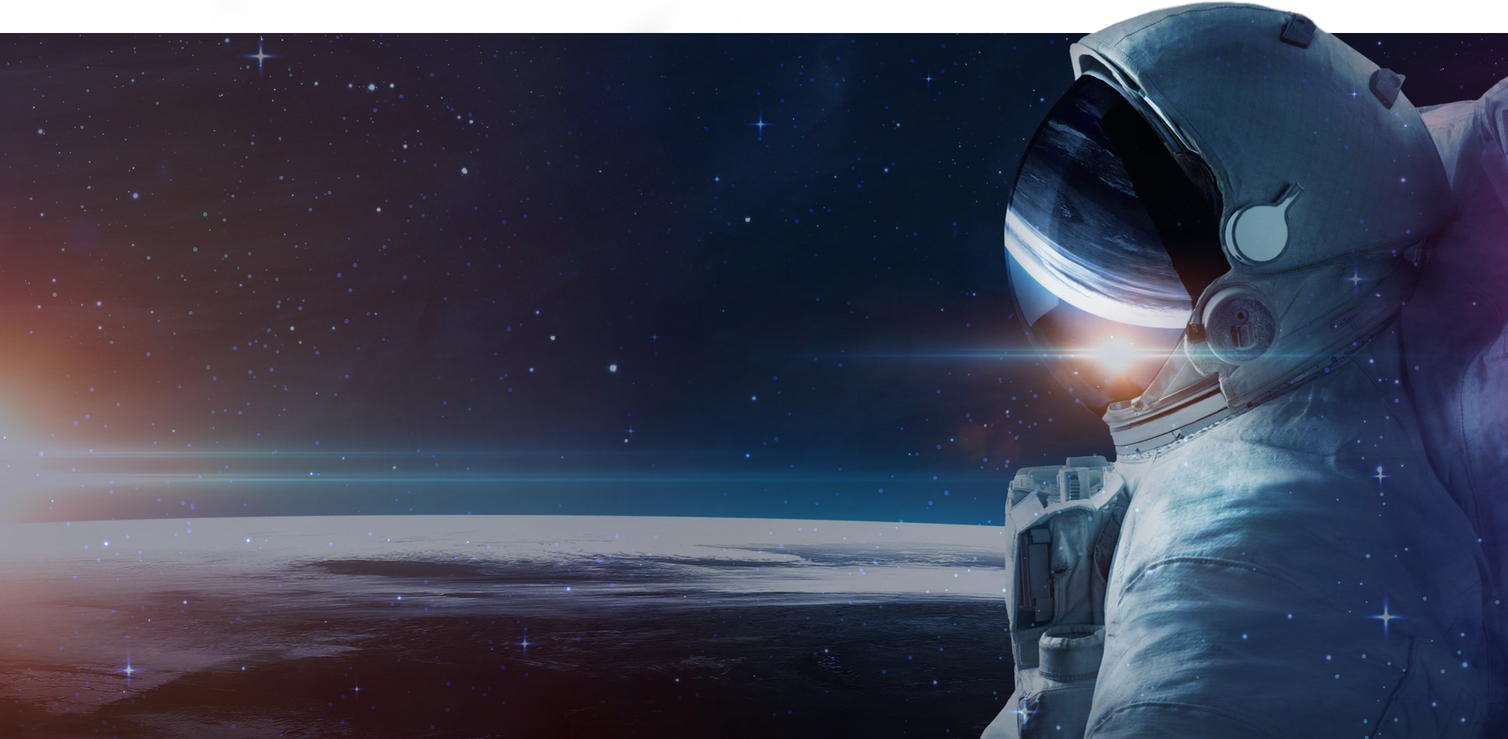
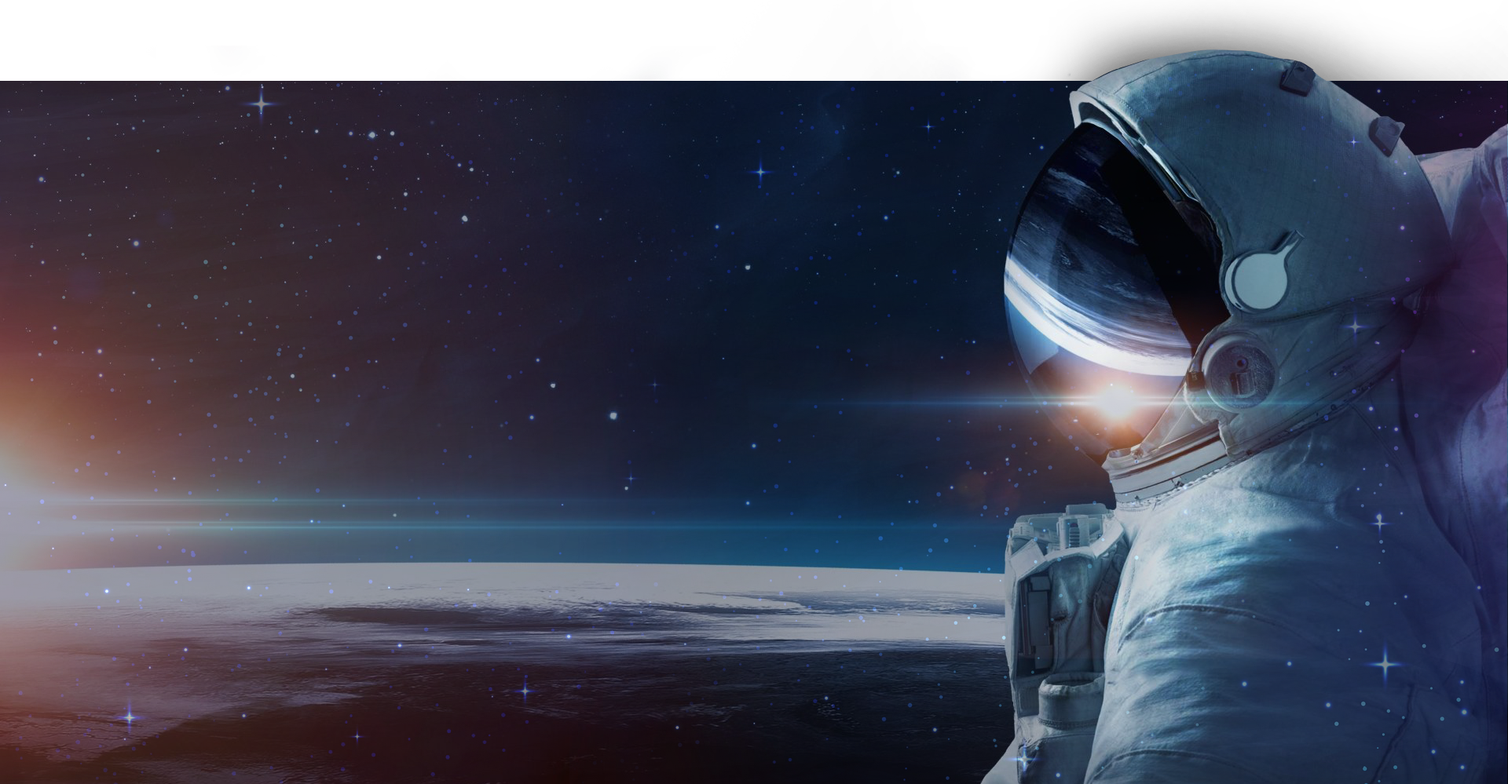
fix mobile

diff --git a/option/css/style.min.css b/option/css/style.min.css
@@ -1,1 +1,1 @@
-.edge__name,.title__name{font-weight:300;text-transform:uppercase}.contact__form button,.contact__text,.edge__name,.title__begin,.title__name{text-transform:uppercase}body{min-width:320px;margin:0}.container{width:1200px;margin:auto}@media screen and (max-width:1200px){.container{width:95%}}@font-face{font-family:'Open Sans Light';font-style:normal;font-weight:300;src:local("Open Sans Light"),local("OpenSans-Light"),url(../fonts/open-sans-v15-latin-300.woff2) format("woff2"),url(../fonts/open-sans-v15-latin-300.woff) format("woff")}@font-face{font-family:'Open Sans Regular';font-style:normal;font-weight:400;src:local("Open Sans Regular"),local("OpenSans-Regular"),url(../fonts/open-sans-v15-latin-regular.woff2) format("woff2"),url(../fonts/open-sans-v15-latin-regular.woff) format("woff")}@font-face{font-family:'Open Sans SemiBold';font-style:normal;font-weight:600;src:local("Open Sans SemiBold"),local("OpenSans-SemiBold"),url(../fonts/open-sans-v15-latin-600.woff2) format("woff2"),url(../fonts/open-sans-v15-latin-600.woff) format("woff")}@font-face{font-family:'Open Sans Bold';font-style:normal;font-weight:700;src:local("Open Sans Bold"),local("OpenSans-Bold"),url(../fonts/open-sans-v15-latin-700.woff2) format("woff2"),url(../fonts/open-sans-v15-latin-700.woff) format("woff")}.title{padding:70px 0 150px;background:url(../img/title-bg.jpg) top no-repeat #260d2f;background-size:cover}.title__wrapper{padding:0 50px}.title__logo{width:275px;height:49px}.title__name{margin:80px 0 50px;color:#fff;font-size:60px;font-family:'Open Sans Light',sans-serif}.title__name span{font-family:'Open Sans Bold',sans-serif}.edge__name,.title__begin,.title__text{color:#fff;font-family:'Open Sans Light',sans-serif}.title__text{margin:0 0 80px;font-size:34px}.title__begin{padding:15px 100px;font-size:30px;text-decoration:none;border-radius:5px;-webkit-box-shadow:0 0 6px .3px #00aeff;box-shadow:0 0 6px .3px #00aeff;background:#00aeff;-webkit-transition:.3s;transition:.3s}.title__begin:hover{-webkit-box-shadow:0 0 20px .3px #00aeff;box-shadow:0 0 20px .3px #00aeff}@media screen and (max-width:768px){.title{padding:30px 0 70px}.title__wrapper{padding:0}.title__logo{display:block;width:200px;height:auto;margin:auto}.title__name{margin:50px 0;font-size:30px;text-align:center}.title__text{font-size:25px;text-align:center}.title__begin{display:block;width:250px;margin:0 auto;padding:15px 0;font-size:16px;text-align:center}}.contact__flex,.edge__flex{display:-webkit-box;display:-ms-flexbox}.edge{padding:90px 0 40px;background:#182340}.edge__name{margin:0 0 90px;font-size:48px;text-align:center}.edge__name span{font-family:'Open Sans Bold',sans-serif}.contact__text,.edge__box{color:#fff;font-family:'Open Sans Light',sans-serif}.edge__flex{display:flex;-webkit-box-pack:justify;-ms-flex-pack:justify;justify-content:space-between}.edge__flex--second{-ms-flex-pack:distribute;justify-content:space-around;margin:100px 0 0}.edge__box{width:250px;padding:80px 0 0;font-size:20px;text-align:center}.edge__box--1{background:url(../img/edge-1.png) top no-repeat;background-size:88px}.edge__box--2{background:url(../img/edge-2.png) top no-repeat;background-size:85px}.edge__box--3{background:url(../img/edge-3.png) top no-repeat;background-size:72px}.edge__box--4{background:url(../img/edge-4.png) top no-repeat;background-size:91px}.edge__box--5{background:url(../img/edge-5.png) top no-repeat;background-size:70px}@media screen and (max-width:768px){.edge{padding:30px 0 0}.edge__name{margin:0 0 50px;font-size:30px}.edge__flex{-webkit-box-orient:vertical;-webkit-box-direction:normal;-ms-flex-direction:column;flex-direction:column;-webkit-box-align:center;-ms-flex-align:center;align-items:center}.edge__flex--second{margin:0}.edge__box{margin:0 0 20px;font-size:16px}}.contact{padding:250px 0 60px;background:url(../img/contact-bg-1.png) top no-repeat #182340;background-size:cover}.contact__wrapper{width:950px;margin:auto}.contact__text{margin:0;font-size:30px}.contact__text span{font-family:'Open Sans Bold',sans-serif}.contact__form button,.contact__form input,.footer__wrapper--text{font-family:'Open Sans Light',sans-serif}.contact__text:nth-child(2){margin:30px 0 80px}.contact__form{padding:65px 85px;background:rgba(0,0,0,.4)}.contact__form input{width:300px;height:55px;padding:0 25px;font-size:20px;border:none;border-radius:5px}.contact__form input::-webkit-input-placeholder{color:#555}.contact__form input:-ms-input-placeholder{color:#555}.contact__form input::-ms-input-placeholder{color:#555}.contact__form input::placeholder{color:#555}.contact__form button{display:block;margin:auto;padding:15px 110px;color:#fff;font-size:26px;-webkit-box-shadow:0 0 80px 0 #00aeff;box-shadow:0 0 80px 0 #00aeff;border:none;border-radius:5px;background:#00aeff;-webkit-transition:.3s;transition:.3s;cursor:pointer}.contact__form button:hover{-webkit-box-shadow:0 0 120px 0 #00aeff;box-shadow:0 0 120px 0 #00aeff}.contact__flex{display:flex;-webkit-box-pack:justify;-ms-flex-pack:justify;justify-content:space-between}.contact__flex:nth-child(2){margin:30px 0 40px}@media screen and (max-width:1200px){.contact__wrapper{width:auto}.contact__form{padding:35px}.contact__form input{width:250px}}@media screen and (max-width:768px){.contact{padding:150px 0 60px}.contact__text{font-size:25px;text-align:center}.contact__text:nth-child(2){margin:30px 0 50px}.contact__form input{width:auto;margin:0 0 10px;font-size:16px}.contact__form button{width:100%;padding:15px 0;font-size:16px}.contact__flex{-webkit-box-orient:vertical;-webkit-box-direction:normal;-ms-flex-direction:column;flex-direction:column}.contact__flex:nth-child(2){margin:0 0 20px}}.footer__wrapper{background:#181818}.footer__wrapper--dark{background:#121212}.footer__wrapper--text{padding:20px 0 50px;color:#676464;font-size:13px}.footer__wrapper--text span{font-family:'Open Sans Bold',sans-serif}.footer__wrapper--text a{color:#a4a0a0;text-decoration:none;-webkit-transition:.3s;transition:.3s}.footer__wrapper--text a:hover{color:#00aeff}.footer__middle b,.footer__middle ul li a{color:#fff;font-family:'Open Sans Light',sans-serif}.footer__wrapper hr{width:1px;border:none;background:#252525}.footer__flex{display:-webkit-box;display:-ms-flexbox;display:flex;-webkit-box-pack:justify;-ms-flex-pack:justify;justify-content:space-between}.footer__flex--social{padding:50px 0}.footer__flex--link{padding:40px 0}.footer__logo{width:373px;height:44px}.footer__left{width:307px;height:138px;background:url(../img/footer-payment.png) left no-repeat;background-size:307px}.footer__middle b{padding:0 0 0 25px;font-size:20px;background:url(../img/footer-link.png) left no-repeat}.footer__middle ul{padding:0;list-style:none}.footer__middle ul li{padding:5px 0}.footer__middle ul li a{font-size:13px;text-decoration:none;-webkit-transition:.3s;transition:.3s}.footer__middle ul li a:hover{color:#00aeff}.footer__right{padding:0 155px 0 0;background:url(../img/footer-mockup.png) right no-repeat}.footer__right b{padding:0 0 0 30px;color:#fff;font-size:20px;font-family:'Open Sans Light',sans-serif;background:url(../img/footer-download.png) left no-repeat}.footer__right a{display:block;width:157px;height:42px;border-radius:5px}.footer__right a:nth-child(2){margin:20px 0 15px;background:url(../img/footer-appstore.png) top no-repeat #000;background-size:cover}.footer__right a:nth-child(3){background:url(../img/footer-googleplay.png) top no-repeat #000;background-size:cover}@media screen and (max-width:1200px){.footer__left{width:200px;background-size:200px}}@media screen and (max-width:768px){.footer__middle,.footer__right{text-align:center}.footer__flex{-webkit-box-orient:vertical;-webkit-box-direction:normal;-ms-flex-direction:column;flex-direction:column;-webkit-box-align:center;-ms-flex-align:center;align-items:center}.footer__logo{width:300px;height:auto}.footer__right{padding:0;background:0 0}}
+.edge__name,.title__name{font-weight:300;text-transform:uppercase}.contact__form button,.contact__text,.edge__name,.title__begin,.title__name{text-transform:uppercase}body{min-width:320px;margin:0}.container{width:1200px;margin:auto}@media screen and (max-width:1200px){.container{width:95%}}@font-face{font-family:'Open Sans Light';font-style:normal;font-weight:300;src:local("Open Sans Light"),local("OpenSans-Light"),url(../fonts/open-sans-v15-latin-300.woff2) format("woff2"),url(../fonts/open-sans-v15-latin-300.woff) format("woff")}@font-face{font-family:'Open Sans Regular';font-style:normal;font-weight:400;src:local("Open Sans Regular"),local("OpenSans-Regular"),url(../fonts/open-sans-v15-latin-regular.woff2) format("woff2"),url(../fonts/open-sans-v15-latin-regular.woff) format("woff")}@font-face{font-family:'Open Sans SemiBold';font-style:normal;font-weight:600;src:local("Open Sans SemiBold"),local("OpenSans-SemiBold"),url(../fonts/open-sans-v15-latin-600.woff2) format("woff2"),url(../fonts/open-sans-v15-latin-600.woff) format("woff")}@font-face{font-family:'Open Sans Bold';font-style:normal;font-weight:700;src:local("Open Sans Bold"),local("OpenSans-Bold"),url(../fonts/open-sans-v15-latin-700.woff2) format("woff2"),url(../fonts/open-sans-v15-latin-700.woff) format("woff")}.title{padding:70px 0 150px;background:url(../img/title-bg.jpg) top no-repeat #260d2f;background-size:cover}.title__wrapper{padding:0 50px}.title__logo{width:275px;height:49px}.title__name{margin:80px 0 50px;color:#fff;font-size:60px;font-family:'Open Sans Light',sans-serif}.title__name span{font-family:'Open Sans Bold',sans-serif}.edge__name,.title__begin,.title__text{color:#fff;font-family:'Open Sans Light',sans-serif}.title__text{margin:0 0 80px;font-size:34px}.title__begin{padding:15px 100px;font-size:30px;text-decoration:none;border-radius:5px;-webkit-box-shadow:0 0 6px .3px #00aeff;box-shadow:0 0 6px .3px #00aeff;background:#00aeff;-webkit-transition:.3s;transition:.3s}.title__begin:hover{-webkit-box-shadow:0 0 20px .3px #00aeff;box-shadow:0 0 20px .3px #00aeff}@media screen and (max-width:768px){.title{padding:30px 0;background:url(../img/title-bg-m.jpg) top no-repeat #260d2f;background-size:cover}.title__wrapper{padding:0}.title__logo{display:block;width:200px;height:auto;margin:auto}.title__name{margin:170px 0 0;font-size:30px;text-align:center}.title__text{margin:0 0 20px;font-size:14px;text-align:center}.title__begin{display:block;width:250px;margin:0 auto;padding:15px 0;font-size:20px;text-align:center}}.contact__flex,.edge__flex{display:-webkit-box;display:-ms-flexbox}.edge{padding:90px 0 40px;background:#182340}.edge__name{margin:0 0 90px;font-size:48px;text-align:center}.edge__name span{font-family:'Open Sans Bold',sans-serif}.contact__text,.edge__box{color:#fff;font-family:'Open Sans Light',sans-serif}.edge__flex{display:flex;-webkit-box-pack:justify;-ms-flex-pack:justify;justify-content:space-between}.edge__flex--second{-ms-flex-pack:distribute;justify-content:space-around;margin:100px 0 0}.edge__box{width:250px;padding:80px 0 0;font-size:20px;text-align:center}.edge__box--1{background:url(../img/edge-1.png) top no-repeat;background-size:88px}.edge__box--2{background:url(../img/edge-2.png) top no-repeat;background-size:85px}.edge__box--3{background:url(../img/edge-3.png) top no-repeat;background-size:72px}.edge__box--4{background:url(../img/edge-4.png) top no-repeat;background-size:91px}.edge__box--5{background:url(../img/edge-5.png) top no-repeat;background-size:70px}@media screen and (max-width:768px){.edge{padding:30px 0 0}.edge__name{margin:0 0 50px;font-size:26px}.edge__flex{-webkit-box-orient:vertical;-webkit-box-direction:normal;-ms-flex-direction:column;flex-direction:column;-webkit-box-align:center;-ms-flex-align:center;align-items:center}.edge__flex--second{margin:0}.edge__box{margin:0 0 20px;font-size:16px}}.contact{padding:250px 0 60px;background:url(../img/contact-bg.png) top no-repeat #182340;background-size:cover}.contact__wrapper{width:950px;margin:auto}.contact__text{margin:0;font-size:30px}.contact__text span{font-family:'Open Sans Bold',sans-serif}.contact__form button,.contact__form input,.footer__wrapper--text{font-family:'Open Sans Light',sans-serif}.contact__text:nth-child(2){margin:30px 0 80px}.contact__form{padding:65px 85px;background:rgba(0,0,0,.4)}.contact__form input{width:300px;height:55px;padding:0 25px;font-size:20px;border:none;border-radius:5px}.contact__form input::-webkit-input-placeholder{color:#555}.contact__form input:-ms-input-placeholder{color:#555}.contact__form input::-ms-input-placeholder{color:#555}.contact__form input::placeholder{color:#555}.contact__form button{display:block;margin:auto;padding:15px 110px;color:#fff;font-size:26px;-webkit-box-shadow:0 0 80px 0 #00aeff;box-shadow:0 0 80px 0 #00aeff;border:none;border-radius:5px;background:#00aeff;-webkit-transition:.3s;transition:.3s;cursor:pointer}.contact__form button:hover{-webkit-box-shadow:0 0 120px 0 #00aeff;box-shadow:0 0 120px 0 #00aeff}.contact__flex{display:flex;-webkit-box-pack:justify;-ms-flex-pack:justify;justify-content:space-between}.contact__flex:nth-child(2){margin:30px 0 40px}@media screen and (max-width:1200px){.contact__wrapper{width:auto}.contact__form{padding:35px}.contact__form input{width:250px}}@media screen and (max-width:768px){.contact{padding:70px 0 15px;background:url(../img/contact-bg-m.jpg) top no-repeat #182340;background-size:cover}.contact__text{font-size:20px;text-align:center}.contact__text:nth-child(2){margin:30px 0 40px}.contact__form{padding:50px 15px 30px}.contact__form input{width:auto;height:45px;margin:0 0 10px;font-size:16px}.contact__form button{width:100%;padding:15px 0;font-size:20px}.contact__flex{-webkit-box-orient:vertical;-webkit-box-direction:normal;-ms-flex-direction:column;flex-direction:column}.contact__flex:nth-child(2){margin:0 0 20px}}.footer__wrapper{background:#181818}.footer__wrapper--dark{background:#121212}.footer__wrapper--text{padding:20px 0 50px;color:#676464;font-size:13px}.footer__wrapper--text span{font-family:'Open Sans Bold',sans-serif}.footer__wrapper--text a{color:#a4a0a0;text-decoration:none;-webkit-transition:.3s;transition:.3s}.footer__wrapper--text a:hover{color:#00aeff}.footer__middle b,.footer__middle ul li a{color:#fff;font-family:'Open Sans Light',sans-serif}.footer__wrapper hr{width:1px;border:none;background:#252525}.footer__flex{display:-webkit-box;display:-ms-flexbox;display:flex;-webkit-box-pack:justify;-ms-flex-pack:justify;justify-content:space-between}.footer__flex--social{padding:50px 0}.footer__flex--link{padding:40px 0}.footer__logo{width:373px;height:44px}.footer__left{width:307px;height:138px;background:url(../img/footer-payment.png) left no-repeat;background-size:307px}.footer__middle b{padding:0 0 0 25px;font-size:20px;background:url(../img/footer-link.png) left no-repeat}.footer__middle ul{padding:0;list-style:none}.footer__middle ul li{padding:5px 0}.footer__middle ul li a{font-size:13px;text-decoration:none;-webkit-transition:.3s;transition:.3s}.footer__middle ul li a:hover{color:#00aeff}.footer__right{padding:0 155px 0 0;background:url(../img/footer-mockup.png) right no-repeat}.footer__right b{padding:0 0 0 30px;color:#fff;font-size:20px;font-family:'Open Sans Light',sans-serif;background:url(../img/footer-download.png) left no-repeat}.footer__right a{display:block;width:157px;height:42px;border-radius:5px}.footer__right a:nth-child(2){margin:20px 0 15px;background:url(../img/footer-appstore.png) top no-repeat #000;background-size:cover}.footer__right a:nth-child(3){background:url(../img/footer-googleplay.png) top no-repeat #000;background-size:cover}.footer__right--text{display:none}@media screen and (max-width:1200px){.footer__left{width:200px;background-size:200px}}@media screen and (max-width:768px){.footer__middle,.footer__right{text-align:center}.footer__flex{-webkit-box-orient:vertical;-webkit-box-direction:normal;-ms-flex-direction:column;flex-direction:column;-webkit-box-align:center;-ms-flex-align:center;align-items:center}.footer__flex--social{padding:110px 0;background:url(../img/footer-logo-m.png) center no-repeat;background-size:270px}.footer__left,.footer__logo,hr{display:none}.footer__right{display:none;padding:0;background:0 0}.footer__right--text{display:block;background:url(../img/footer-mockup.png) bottom right no-repeat;background-position-y:30px}.footer__right--text a:nth-child(2){margin:50px 0 15px}}

diff --git a/option/css/style.css b/option/css/style.css
@@ -89,7 +89,9 @@ body {
 
 @media screen and (max-width: 768px) {
   .title {
-    padding: 30px 0 70px 0; }
+    padding: 30px 0;
+    background: #260d2f url("../img/title-bg-m.jpg") no-repeat top;
+    background-size: cover; }
   .title__wrapper {
     padding: 0; }
   .title__logo {
@@ -98,18 +100,19 @@ body {
     height: auto;
     margin: auto; }
   .title__name {
-    margin: 50px 0;
+    margin: 170px 0 0 0;
     font-size: 30px;
     text-align: center; }
   .title__text {
-    font-size: 25px;
+    margin: 0 0 20px 0;
+    font-size: 14px;
     text-align: center; }
   .title__begin {
     display: block;
     width: 250px;
     margin: 0 auto;
     padding: 15px 0;
-    font-size: 16px;
+    font-size: 20px;
     text-align: center; } }
 
 .edge {
@@ -167,7 +170,7 @@ body {
     padding: 30px 0 0 0; }
   .edge__name {
     margin: 0 0 50px 0;
-    font-size: 30px; }
+    font-size: 26px; }
   .edge__flex {
     -webkit-box-orient: vertical;
     -webkit-box-direction: normal;
@@ -184,7 +187,7 @@ body {
 
 .contact {
   padding: 250px 0 60px 0;
-  background: #182340 url("../img/contact-bg-1.png") no-repeat top;
+  background: #182340 url("../img/contact-bg.png") no-repeat top;
   background-size: cover; }
 
 .contact__wrapper {
@@ -261,20 +264,25 @@ body {
 
 @media screen and (max-width: 768px) {
   .contact {
-    padding: 150px 0 60px 0; }
+    padding: 70px 0 15px 0;
+    background: #182340 url("../img/contact-bg-m.jpg") no-repeat top;
+    background-size: cover; }
   .contact__text {
-    font-size: 25px;
+    font-size: 20px;
     text-align: center; }
     .contact__text:nth-child(2) {
-      margin: 30px 0 50px 0; }
-  .contact__form input {
-    width: auto;
-    margin: 0 0 10px 0;
-    font-size: 16px; }
-  .contact__form button {
-    width: 100%;
-    padding: 15px 0;
-    font-size: 16px; }
+      margin: 30px 0 40px 0; }
+  .contact__form {
+    padding: 50px 15px 30px 15px; }
+    .contact__form input {
+      width: auto;
+      height: 45px;
+      margin: 0 0 10px 0;
+      font-size: 16px; }
+    .contact__form button {
+      width: 100%;
+      padding: 15px 0;
+      font-size: 20px; }
   .contact__flex {
     -webkit-box-orient: vertical;
     -webkit-box-direction: normal;
@@ -372,6 +380,9 @@ body {
       background: #000 url("../img/footer-googleplay.png") no-repeat top;
       background-size: cover; }
 
+.footer__right--text {
+  display: none; }
+
 @media screen and (max-width: 1200px) {
   .footer__left {
     width: 200px;
@@ -386,12 +397,24 @@ body {
     -webkit-box-align: center;
     -ms-flex-align: center;
     align-items: center; }
-  .footer__logo {
-    width: 300px;
-    height: auto; }
+    .footer__flex--social {
+      padding: 110px 0;
+      background: url("../img/footer-logo-m.png") no-repeat center;
+      background-size: 270px; }
+  .footer__logo,
+  .footer__left,
+  hr {
+    display: none; }
   .footer__middle {
     text-align: center; }
   .footer__right {
+    display: none;
     padding: 0;
     text-align: center;
-    background: none; } }
+    background: none; }
+    .footer__right--text {
+      display: block;
+      background: url("../img/footer-mockup.png") no-repeat bottom right;
+      background-position-y: 30px; }
+      .footer__right--text a:nth-child(2) {
+        margin: 50px 0 15px 0; } }

diff --git a/option/index.html b/option/index.html
@@ -93,6 +93,11 @@
     </div>
     <div class="footer__wrapper  footer__wrapper--text">
       <div class="container">
+        <div class="footer__right  footer__right--text">
+          <b>Скачать</b>
+          <a href="#"></a>
+          <a href="#"></a>
+        </div>
         <p><span>Информация о компании:</span> Данный вебсайт (<a href="https://www.24option.com/international">www.24option.com/international</a>) управляется Richfield Capital Limited, инвестиционная фирма в Белизе, полномочной и регулируемой Международной комиссией по финансовым услугам Белиза, номер лицензии (IFSC/60/440/TS/1517). Richfield Capital Limited располагается по адресу 5 Cork Street, город Белиз, Белиз.</p>
         <p>Согласно соглашению о платежных услугах между Richfield Capital Limited и Wonderbridge Services Limited, Wonderbridge Services Limited действует как платежный агент, предоставляющий платежные услуги Richfield Capital Limited.</p>
         <p>Предупреждение о риске: Контракты на разницу (‘CFD) являются сложным финансовым инструментом спекулятивного характера, торговля которым влечет за собой существенный риск потери капитала. Торговля CFD, являющимися маржовыми продуктами, может привести к потере всего инвестированного капитала. Помните, что леверидж в CFD может работать в обе стороны, и быть как преимуществом, так и недостатком. Трейдеры CFD не приобретают и не имеют никаких прав на базовые активы. Торговля бинарными опционами и CFD подходит не для всех инвесторов. Предыдущие успехи не являются гарантией будущих результатов. Прогнозы не являются надежным показателем будущих результатов. Перед торговлей вам следует внимательно рассмотреть свои инвестиционные цели, уровень опыта и толерантности к риску. Не следует вкладывать больше, чем вы можете позволить себе потерять. Пожалуйста, убедитесь, что вы полностью понимаете риски, связанные с выбранным продуктом и в случае необходимости можете обратиться за консультацией. Прочитайте, пожалуйста, наше <a href="#">Предупреждение о рисках</a>.</p>

diff --git a/option/sass/blocks/footer.scss b/option/sass/blocks/footer.scss
@@ -126,6 +126,10 @@
   }
 }
 
+.footer__right--text {
+  display: none;
+}
+
 @media screen and ($tablet-widths) {
   .footer__left {
     width: 200px;
@@ -137,11 +141,18 @@
   .footer__flex {
     flex-direction: column;
     align-items: center;
+    
+    &--social {
+      padding: 110px 0;
+      background: url('../img/footer-logo-m.png') no-repeat center;
+      background-size: 270px;
+    }
   }
   
-  .footer__logo {
-    width: 300px;
-    height: auto;
+  .footer__logo,
+  .footer__left,
+  hr {
+    display: none;
   }
   
   .footer__middle {
@@ -149,8 +160,22 @@
   }
   
   .footer__right {
+    display: none;
     padding: 0;
     text-align: center;
     background: none;
+    
+    &--text {
+      display: block;
+      background: url('../img/footer-mockup.png') no-repeat bottom right;
+      background-position-y: 30px; 
+      
+      a {
+        
+        &:nth-child(2) {
+          margin: 50px 0 15px 0;
+        }
+      }
+    }
   }
 }

diff --git a/option/sass/blocks/contact.scss b/option/sass/blocks/contact.scss
@@ -1,6 +1,6 @@
 .contact {
   padding: 250px 0 60px 0;
-  background: #182340 url('../img/contact-bg-1.png') no-repeat top;
+  background: #182340 url('../img/contact-bg.png') no-repeat top;
   background-size: cover;
 }
 
@@ -89,22 +89,26 @@
 
 @media screen and ($mobile-widths) {
   .contact {
-    padding: 150px 0 60px 0;
+    padding: 70px 0 15px 0;
+    background: #182340 url('../img/contact-bg-m.jpg') no-repeat top;
+    background-size: cover;
   }
   
   .contact__text {
-    font-size: 25px;
+    font-size: 20px;
     text-align: center;
     
     &:nth-child(2) {
-      margin: 30px 0 50px 0;
+      margin: 30px 0 40px 0;
     }
   }
   
   .contact__form {
+    padding: 50px 15px 30px 15px;
     
     input {
       width: auto;
+      height: 45px;
       margin: 0 0 10px 0;
       font-size: 16px;
     }
@@ -112,7 +116,7 @@
     button {
       width: 100%;
       padding: 15px 0;
-      font-size: 16px;
+      font-size: 20px;
     }
   }
   

diff --git a/option/sass/blocks/title.scss b/option/sass/blocks/title.scss
@@ -54,7 +54,9 @@
 
 @media screen and ($mobile-widths) {
   .title {
-    padding: 30px 0 70px 0;
+    padding: 30px 0;
+    background: #260d2f url('../img/title-bg-m.jpg') no-repeat top;
+    background-size: cover;
   }
   
   .title__wrapper {
@@ -69,13 +71,14 @@
   }
   
   .title__name {
-    margin: 50px 0;
+    margin: 170px 0 0 0;
     font-size: 30px;
     text-align: center;
   }
   
   .title__text {
-    font-size: 25px;
+    margin: 0 0 20px 0;
+    font-size: 14px;
     text-align: center;
   }
   
@@ -84,7 +87,7 @@
     width: 250px;
     margin: 0 auto;
     padding: 15px 0;
-    font-size: 16px;
+    font-size: 20px;
     text-align: center;
   }
 }

diff --git a/option/sass/blocks/edge.scss b/option/sass/blocks/edge.scss
@@ -70,7 +70,7 @@
   
   .edge__name {
     margin: 0 0 50px 0;
-    font-size: 30px;
+    font-size: 26px;
   }
   
   .edge__flex {
